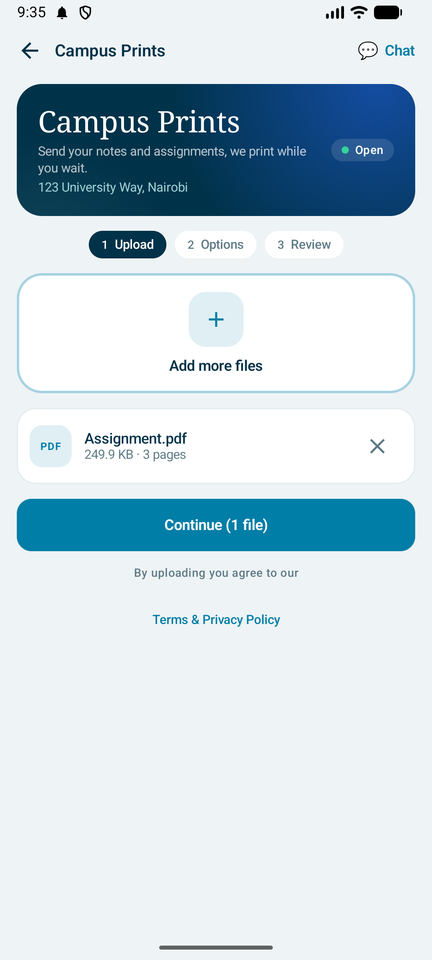
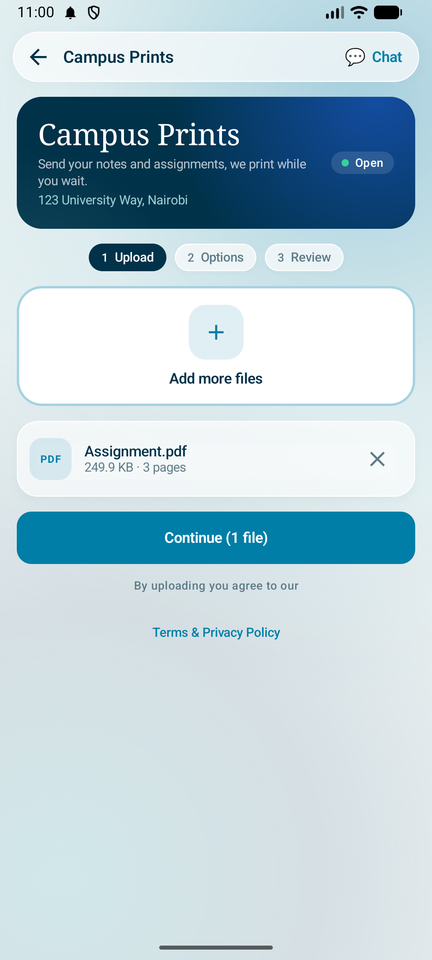
docs(android): refresh screenshots and add ambient glass backdrop
Remove dark-mode screenshots, update light screenshots, and refine README. Add a subtle ambient backdrop and tweak glass/card opacity and motion for the light theme.

diff --git a/app/src/main/java/com/quickprint/app/ui/components/Motion.kt b/app/src/main/java/com/quickprint/app/ui/components/Motion.kt
@@ -173,11 +173,41 @@ fun Modifier.glass(
 ): Modifier = composed {
     val dark = LocalQpExtras.current.isDark
     val base = tint ?: MaterialTheme.colorScheme.surface
-    val a = alpha ?: if (dark) 0.84f else 0.78f
+    val a = alpha ?: if (dark) 0.84f else 0.7f
     val edge = if (dark) Color.White.copy(alpha = 0.07f) else Color.White.copy(alpha = if (tint != null) 0.16f else 0.7f)
     this
         .shadow(if (dark) 0.dp else elevation, shape, ambientColor = Color(0x33003249), spotColor = Color(0x33003249))
         .clip(shape)
         .background(base.copy(alpha = a))
         .border(1.dp, edge, shape)
+}
+
+// ------------------------------------------------------------------ ambient backdrop
+
+/**
+ * Light mode only: two large, soft brand-colour glows that drift slowly behind every screen,
+ * so the translucent glass surfaces pick up colour (the website does the same). Flat in dark mode.
+ */
+@Composable
+fun AmbientBackdrop(modifier: Modifier = Modifier) {
+    if (LocalQpExtras.current.isDark) return
+    val t = rememberInfiniteTransition(label = "ambient")
+    val a by t.animateFloat(0f, 1f, infiniteRepeatable(tween(26_000), RepeatMode.Reverse), label = "a")
+    val b by t.animateFloat(0f, 1f, infiniteRepeatable(tween(32_000), RepeatMode.Reverse), label = "b")
+    androidx.compose.foundation.Canvas(modifier.fillMaxSize()) {
+        val w = size.width
+        val h = size.height
+        val r1 = maxOf(w, h) * 0.62f
+        val c1 = androidx.compose.ui.geometry.Offset(w * (0.95f - 0.12f * a), h * (0.05f + 0.06f * a))
+        drawCircle(
+            Brush.radialGradient(listOf(Color(0x4D007EA7), Color(0x339AD1D4), Color.Transparent), center = c1, radius = r1),
+            radius = r1, center = c1,
+        )
+        val r2 = maxOf(w, h) * 0.55f
+        val c2 = androidx.compose.ui.geometry.Offset(w * (0.02f + 0.12f * b), h * (0.98f - 0.07f * b))
+        drawCircle(
+            Brush.radialGradient(listOf(Color(0x599AD1D4), Color(0x1A003249), Color.Transparent), center = c2, radius = r2),
+            radius = r2, center = c2,
+        )
+    }
 }

diff --git a/app/src/main/java/com/quickprint/app/QuickPrintApp.kt b/app/src/main/java/com/quickprint/app/QuickPrintApp.kt
@@ -20,6 +20,7 @@ import androidx.navigation.compose.NavHost
 import androidx.navigation.compose.composable
 import androidx.navigation.compose.rememberNavController
 import com.quickprint.app.ui.chat.ChatScreen
+import com.quickprint.app.ui.components.AmbientBackdrop
 import com.quickprint.app.ui.home.HomeScreen
 import com.quickprint.app.ui.shop.ShopScreen
 
@@ -60,6 +61,7 @@ fun QuickPrintApp(link: AppLink?, onLinkHandled: () -> Unit) {
     // Surface (not Box) so all text defaults to the theme's onBackground colour in light and dark mode.
     Surface(Modifier.fillMaxSize(), color = MaterialTheme.colorScheme.background) {
         Box(Modifier.fillMaxSize(), contentAlignment = Alignment.TopCenter) {
+            AmbientBackdrop()
             NavHost(
                 navController = nav,
                 startDestination = Routes.HOME,

diff --git a/app/src/main/java/com/quickprint/app/ui/components/Common.kt b/app/src/main/java/com/quickprint/app/ui/components/Common.kt
@@ -84,7 +84,7 @@ fun BrandPanel(
 @Composable
 fun Card(modifier: Modifier = Modifier, content: @Composable ColumnScope.() -> Unit) {
     // Frosted "liquid glass" card (see Modifier.glass).
-    Column(modifier.fillMaxWidth().glass(RoundedCornerShape(24.dp), alpha = if (LocalQpExtras.current.isDark) 0.9f else 0.86f, elevation = 6.dp).padding(18.dp), content = content)
+    Column(modifier.fillMaxWidth().glass(RoundedCornerShape(24.dp), alpha = if (LocalQpExtras.current.isDark) 0.9f else 0.74f, elevation = 6.dp).padding(18.dp), content = content)
 }
 
 @Composable

diff --git a/README.md b/README.md
@@ -1,19 +1,27 @@
 # QuickPrint for Android
 
-> **The customer app for QuickPrint.** Walk into a cyber café or print shop, enter its code or scan its QR poster, send your documents from your phone and collect your prints. No account needed.
+> **The customer app for QuickPrint.** Walk into a cyber café or print shop, enter its code or scan its QR poster, send your documents from your phone and collect your prints. Chat with the shop if something changes. No account needed.
 
 <p align="center">
   <img src="docs/screenshots/app-icon.png" alt="QuickPrint app icon" width="360">
 </p>
 
-Built with Kotlin and Jetpack Compose. It talks to the same [QuickPrint API](https://github.com/Thee-Entity/QuickPrint-Backend) as the [QuickPrint website](https://github.com/Brian-Kareithi/QuickPrint), so shops see app orders and chats in their normal dashboard.
+Built with Kotlin and Jetpack Compose. It talks to the same API as the website, so shops see app orders and chats in their normal dashboard.
+
+| Part | Repository | What it is |
+|---|---|---|
+| **Android app** (this repo) | [Brian-Kareithi/QuickPrint-Android](https://github.com/Brian-Kareithi/QuickPrint-Android) | Customer app |
+| Website | [Brian-Kareithi/QuickPrint](https://github.com/Brian-Kareithi/QuickPrint) | Customer portal, shop dashboard (where shops reply to chats), Terms & Privacy |
+| API | [Thee-Entity/QuickPrint-Backend](https://github.com/Thee-Entity/QuickPrint-Backend) | NestJS REST + Socket.IO on Railway |
 
 | | |
 |---|---|
+| App ID | `com.quickprint.app` |
 | Min Android | 7.0 (API 24) |
 | Target | API 37 |
 | UI | Jetpack Compose · Material 3 |
 | Backend | `https://quickprint-backend-production.up.railway.app/api` |
+| Website / Terms | `https://quickprint-ten.vercel.app` · [/terms](https://quickprint-ten.vercel.app/terms) |
 
 ## Screenshots
 
@@ -21,32 +29,42 @@ Built with Kotlin and Jetpack Compose. It talks to the same [QuickPrint API](htt
 |:---:|:---:|:---:|:---:|
 | <img src="docs/screenshots/home.png" width="200"> | <img src="docs/screenshots/upload.png" width="200"> | <img src="docs/screenshots/options.png" width="200"> | <img src="docs/screenshots/review.png" width="200"> |
 
-| Order placed | Chat with the shop | Reply notification | Dark chat |
-|:---:|:---:|:---:|:---:|
-| <img src="docs/screenshots/order-placed.png" width="200"> | <img src="docs/screenshots/chat.png" width="200"> | <img src="docs/screenshots/notification.png" width="200"> | <img src="docs/screenshots/chat-dark.png" width="200"> |
+| Order placed | Chat with the shop | Reply notification |
+|:---:|:---:|:---:|
+| <img src="docs/screenshots/order-placed.png" width="200"> | <img src="docs/screenshots/chat.png" width="200"> | <img src="docs/screenshots/notification.png" width="200"> |
+
+## How it works
+
+1. **Connect.** Type the shop's 5-character code, scan its QR poster, or tap a shop link (`https://quickprint-ten.vercel.app/shop/<slug>`), which opens straight in the app. The last shop you used is one tap away.
+2. **Upload.** Pick one or more documents. Only the file types that shop accepts are offered, files stream up with a progress bar, and PDF page counts are detected automatically.
+3. **Choose options** per file: pages, copies, colour, paper size, single/double-sided, quality, binding and finishing.
+4. **Review & order.** The price breakdown comes from the shop's own pricing on the server. Add an optional name, email, phone and note, choose cash, M-Pesa or Airtel, and place the order.
+5. **Pay & collect.** You get an order number and the shop's exact payment steps (Till, Paybill or Send Money). Show the number at the counter.
+6. **Chat if anything changes.** Wrong file, or want to cancel? Tap **Chat** (or *Message the shop* after ordering). You're given a fun nickname such as *Golden Melon 🍈*, the shop sees your order next to the chat, and replies reach you as notifications.
 
 ## Features
 
-- **Connect your way.** Type the shop's 5-character code, scan its QR poster (Google's code scanner, so the app never asks for camera permission), or tap a shop link (`https://quickprint-ten.vercel.app/shop/<slug>`), which opens straight in the app. The last shop you used is one tap away.
-- **Send files.** Pick several documents at once. Files are filtered to the types the shop accepts, streamed with a progress bar (no 50 MB file is ever held in memory), and PDF page counts are detected automatically.
-- **Print options per file.** Pages, copies, colour, paper size, single/double-sided, quality, binding and finishing.
-- **Live pricing and ordering.** The price breakdown comes from the shop's own pricing on the server. Choose cash, M-Pesa or Airtel and get the shop's exact Till, Paybill or Send Money instructions with your order number.
-- **Chat with the shop.** Cancelled, or sent the wrong file? Message the shop with one tap. You get a fun nickname such as *Cute Pineapple 🍍* or *Bubbly Apple 🍎* so the shop can tell customers apart without your real name. Orders are linked to the chat automatically.
-- **Reply notifications.** A heads-up notification pops up only when the shop actually replies; nothing is shown while waiting. With the app open (any screen) replies are checked every 10 seconds. With the app closed, the app checks about every minute for 2 hours after you message a shop, then every 15 minutes (Android may stretch this while the phone is idle). Tapping a notification opens that chat.
-- **Smooth, glassy UI.** Floating rounded glass top bar and message bar in chat, frosted cards, gentle screen transitions, staggered fade-ins, press feedback and shimmer loading skeletons. Content stays a readable width on tablets and in landscape.
-- **Privacy first.** Links to the [Terms & Privacy Policy](https://quickprint-ten.vercel.app/terms). Files are deleted by the server soon after the order is done, chats after 30 days of inactivity, and your private chat key is excluded from cloud backup and device transfer.
-- **Matches QuickPrint.** Same palette as the website (`#003249`, `#007ea7`, `#9ad1d4`). Follows the phone's light or dark setting; dark mode is flat (no gradients).
+- **Connect your way:** code, QR or link. QR scanning uses Google's code scanner, so the app never asks for camera permission.
+- **Chat with the shop:** one-tap messages ("I want to cancel my order", "I sent the wrong document"…), fruit nicknames instead of your name, orders linked automatically, and chats that resume where you left off.
+- **Reply notifications:** a heads-up notification **pops up only when the shop actually replies**; nothing is shown while waiting. With the app open (any screen) replies are checked every 10 seconds. With the app closed, it checks about every minute for 2 hours after you message a shop, then every 15 minutes (Android may stretch this while the phone is idle). Tapping the notification opens that chat. Notification permission is asked once, after your first chat message, with an explanation.
+- **Liquid-glass design:** translucent frosted cards, step pills and floating rounded glass bars (chat top bar and message bar, shop top bar) over a soft, slowly drifting brand-colour backdrop in light mode.
+- **Motion:** gentle screen transitions, step changes that slide, staggered fade-ins, press feedback on cards, a success tick that springs in, and animated error messages.
+- **Loading skeletons** shaped like the real screens: a soft shimmer in light mode, a flat pulse in dark mode.
+- **Light & dark:** follows the phone's setting. Same palette as the website (`#003249`, `#007ea7`, `#9ad1d4`); dark mode is flat navy-charcoal with no gradients.
+- **Responsive:** content keeps a comfortable width on tablets and in landscape.
+- **Privacy first:** links to the [Terms & Privacy Policy](https://quickprint-ten.vercel.app/terms). The server deletes files soon after the order is done and chats after 30 days of inactivity. Your private chat key is excluded from cloud backup and device transfer.
 
 ## Getting started
 
 1. Open the project in **Android Studio** (it uses its bundled JDK).
-2. Let Gradle sync, then run the `app` configuration on a device or emulator.
+2. Let Gradle sync (**File → Sync Project with Gradle Files**), then run the `app` configuration on a device or emulator.
 
 From the command line (Windows, using Android Studio's JDK):
 
 ```sh
 set JAVA_HOME=C:\Program Files\Android\Android Studio\jbr
 gradlew assembleDebug
+gradlew testDebugUnitTest
 ```
 
 The APK is written to `app/build/outputs/apk/debug/app-debug.apk`.
@@ -61,21 +79,27 @@ adb reverse tcp:4000 tcp:4000
 gradlew assembleDebug -PapiBaseUrl=http://localhost:4000/api -PwebBaseUrl=http://localhost:3000 --no-configuration-cache
 ```
 
-Debug builds allow plain HTTP only to `localhost` and `10.0.2.2` ([`app/src/debug`](app/src/debug)); release builds are HTTPS only.
+Debug builds allow plain HTTP only to `localhost` and `10.0.2.2` ([`app/src/debug`](app/src/debug)); release builds are HTTPS only. Use `--no-configuration-cache` when switching URLs so Gradle doesn't reuse the previous values.
+
+> Note: Android 17 limits background access to `localhost`, so background reply checks only work against a real (HTTPS) backend. Use production or a tunnel to test notifications with the app closed.
 
 ## Project structure
 
 ```
-app/src/main/java/com/example/quickprint/
-├── MainActivity.kt          Entry point; handles shop deep links
-├── QuickPrintApp.kt         Navigation: home → shop → chat
-├── data/                    API client (OkHttp), models, repositories, on-device prefs
-├── notifications/           Reply notifications: background checks (WorkManager), permission prompt
+app/src/main/java/com/quickprint/app/
+├── MainActivity.kt          Entry point: shop links, notification taps, 10-second reply checks while open
+├── QuickPrintApp.kt         Navigation (home → shop → chat) with slide/fade transitions, max content width
+├── data/                    API client (OkHttp), models, shop/order/chat repositories, on-device prefs
+├── notifications/
+│   ├── ChatChecker.kt       Checks every chat for new shop replies and shows the notification
+│   ├── ChatCheckWorker.kt   WorkManager: ~1-minute checks after messaging, then every 15 minutes
+│   ├── ChatNotifications.kt Notification channel, heads-up notification, "chat on screen" tracking
+│   └── NotificationPermissionPrompt.kt
 └── ui/
-    ├── home/                Shop code entry + QR scanning
+    ├── home/                Shop code entry + QR scanning + last shop
     ├── shop/                Upload → options → review → order placed (OrderViewModel)
-    ├── chat/                Guest chat with fruit nicknames (ChatViewModel)
-    ├── components/          Brand panel, glass cards, skeletons, motion helpers, terms link, QR glyph
+    ├── chat/                Guest chat with fruit nicknames (ChatViewModel), floating glass bars
+    ├── components/          Brand panel, glass modifier, cards, skeletons, motion helpers, terms link, QR glyph
     └── theme/               QuickPrint colours (light + flat dark), type, shapes
 ```
 
@@ -90,9 +114,19 @@ No camera permission is needed: QR scanning uses Google's code scanner.
 
 > **Instant push at any time** with the app closed would need Firebase Cloud Messaging. The current approach needs no Firebase project and never shows a notification unless there is a new message.
 
-## Before publishing to Google Play
+## Troubleshooting
 
-- Change `applicationId` / `namespace` from `com.example.quickprint` to your own (for example `com.quickprint.app`). Google Play rejects `com.example`.
+| Problem | Fix |
+|---|---|
+| "No shop found with that code" | Check the 5 characters on the shop's poster. Codes can be regenerated by the shop owner. |
+| "File type not allowed" | The shop doesn't accept that type. Ask them to enable it in Dashboard → Settings. |
+| No reply notifications | Allow notifications for QuickPrint in Android settings. Battery saver can delay background checks; open the app to check immediately. |
+| QR scanner doesn't open | Update Google Play services, or enter the shop code instead. |
+
+## Publishing to Google Play
+
+- The app ID is `com.quickprint.app`. **It can never change once published.**
 - Create a signing key and a release build (`gradlew bundleRelease`).
-- The 512 px store icon is at [`app/src/main/ic_launcher-playstore.png`](app/src/main/ic_launcher-playstore.png).
+- The 512 px store icon is at [`app/src/main/ic_launcher-playstore.png`](app/src/main/ic_launcher-playstore.png); adaptive and themed (monochrome) launcher icons are included.
+- Declare notification use in the Play Console data-safety form (no data is shared with third parties).
 - To have shop links open the app without the "Open with" prompt, add `android:autoVerify="true"` to the link intent filter and host an `assetlinks.json` on the website.
